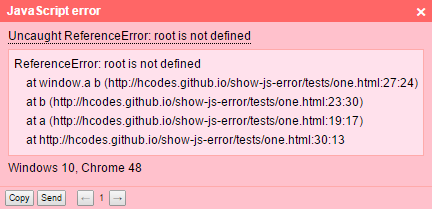
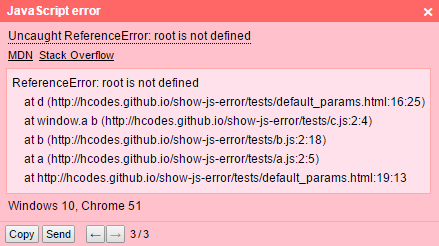
v1.6.0

diff --git a/CHANGELOG.md b/CHANGELOG.md
@@ -1,5 +1,8 @@
 # Changelog
 
+## v1.6.0
+Added links to MDN and Stack Overflow for help.
+
 ## v1.5.0
 - Added output of total number of errors.
 - Increased size of buttons.
